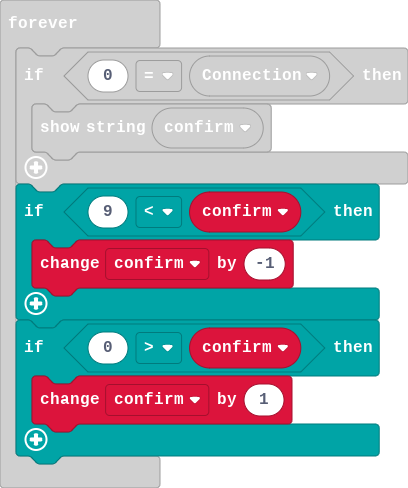
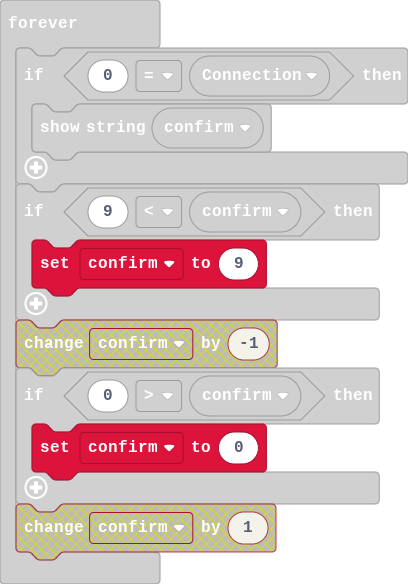
Update main.blocks, main.ts

diff --git a/main.ts b/main.ts
@@ -135,9 +135,9 @@ basic.forever(function () {
         basic.showString("" + (confirm))
     }
     if (9 < confirm) {
-        confirm += -1
+        confirm = 9
     }
     if (0 > confirm) {
-        confirm += 1
+        confirm = 0
     }
 })
